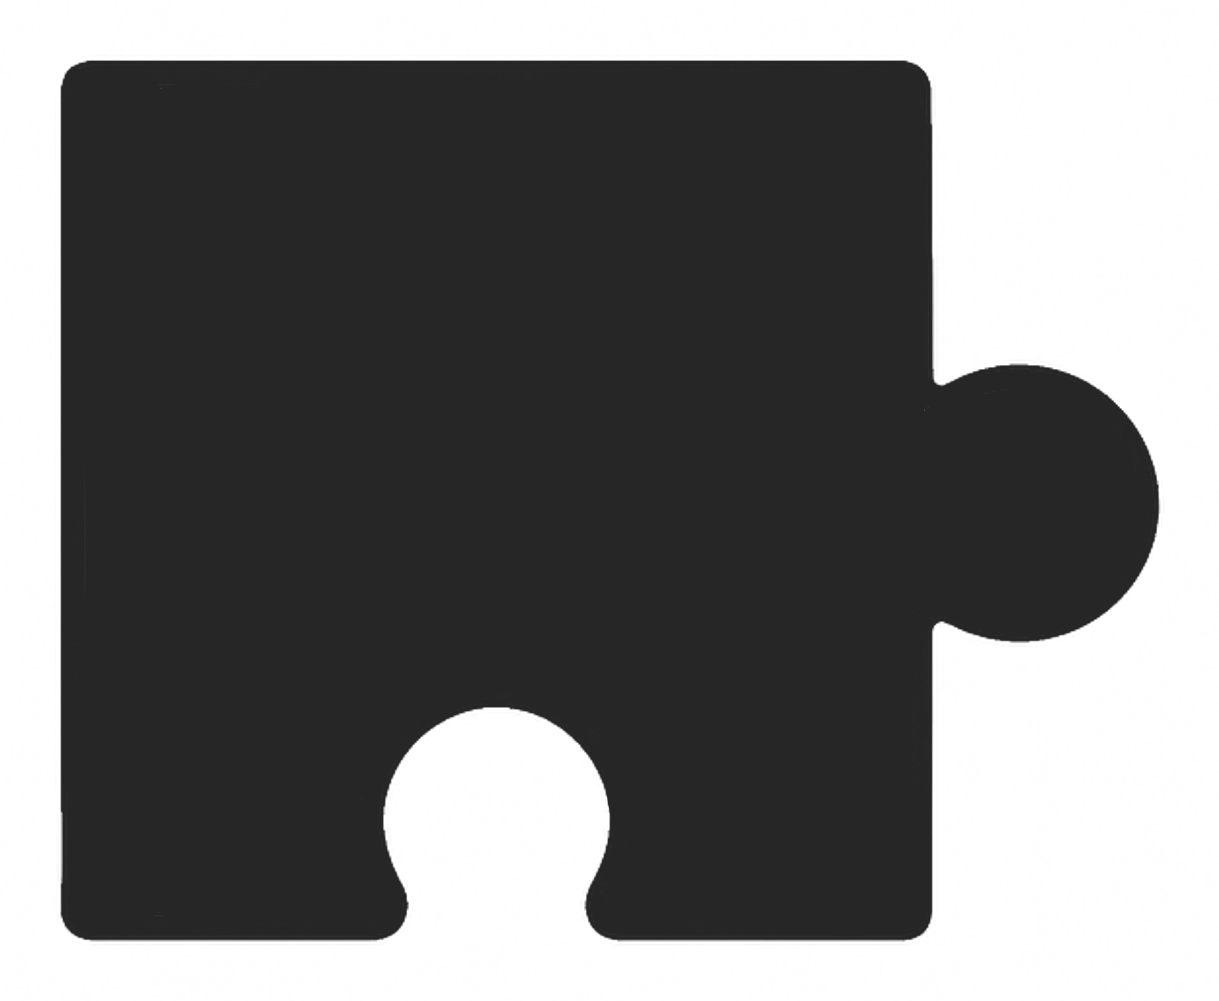
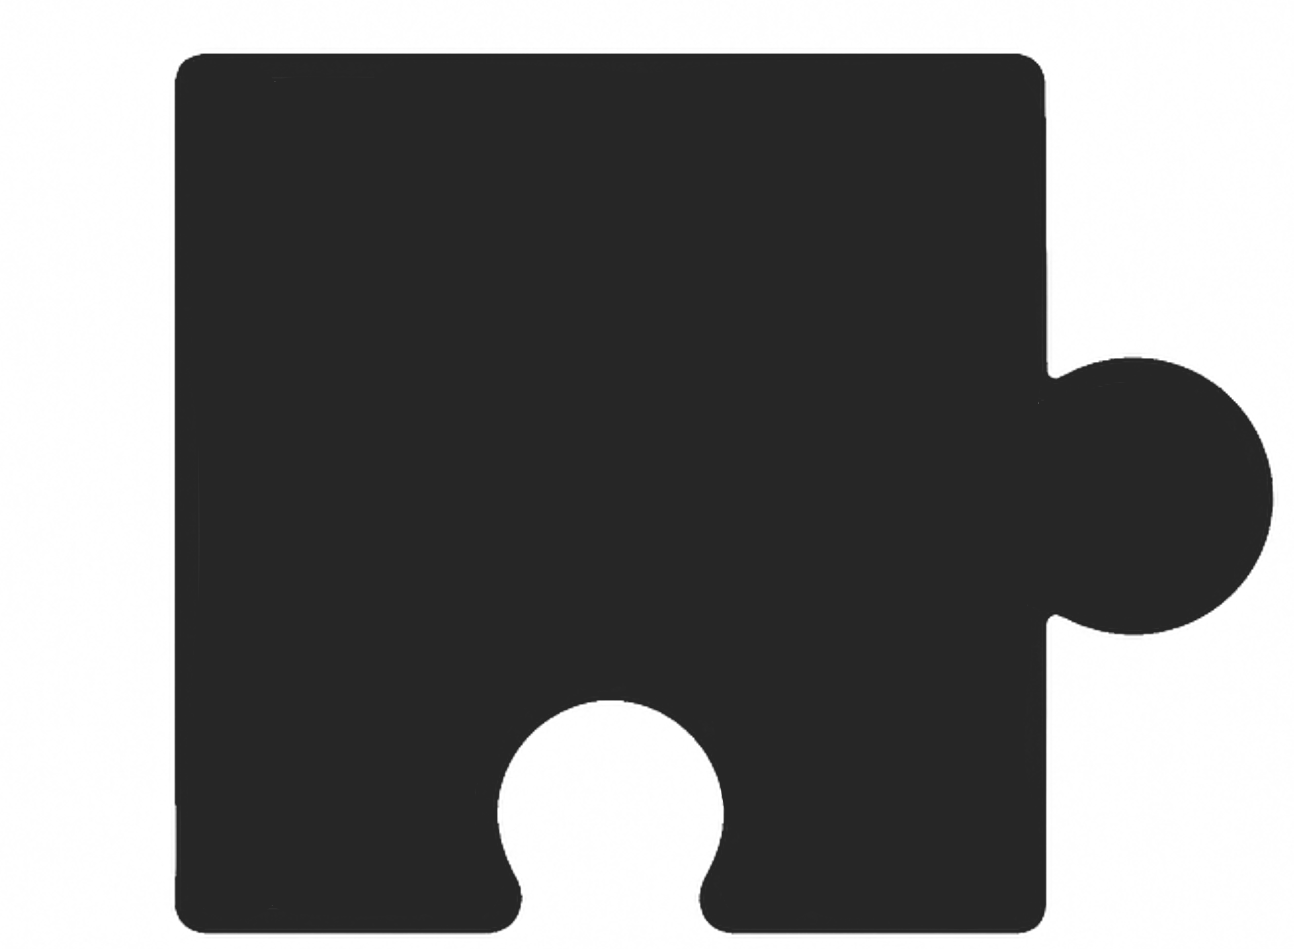
fix(frontend-shell): center the brand mark on visual mass, not its bounding box

Changed region(s): [[0.0312, 0.0306, 0.9975, 1.0]]

diff --git a/packages/frontend/src/components/BrandMark.vue b/packages/frontend/src/components/BrandMark.vue
@@ -1,9 +1,9 @@
 <script setup lang="ts">
 import { computed } from "vue";
 
-// Matches public/brand-mark.png (1219x1001), the source composited onto every
+// Matches public/brand-mark.png (1294x949), the source composited onto every
 // icon by scripts/generate-icons.ts. Keep in sync if that asset is replaced.
-const ASPECT_RATIO = 1219 / 1001;
+const ASPECT_RATIO = 1294 / 949;
 
 const props = defineProps<{ size?: number }>();
 const height = computed(() => props.size ?? 22);
